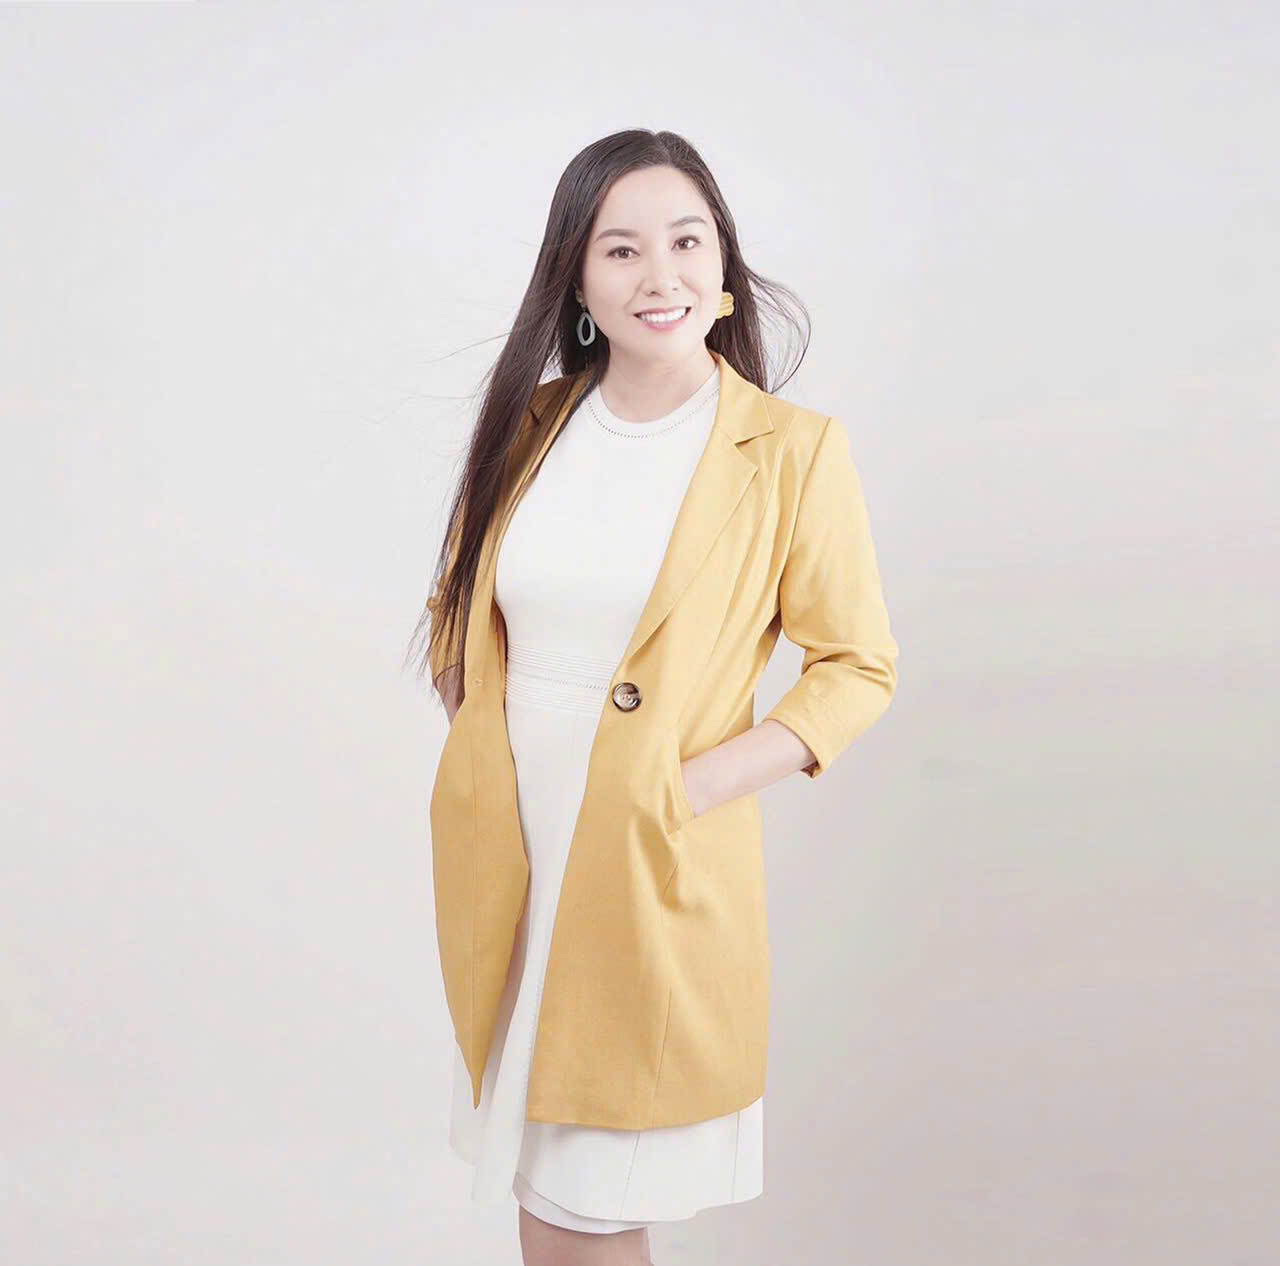
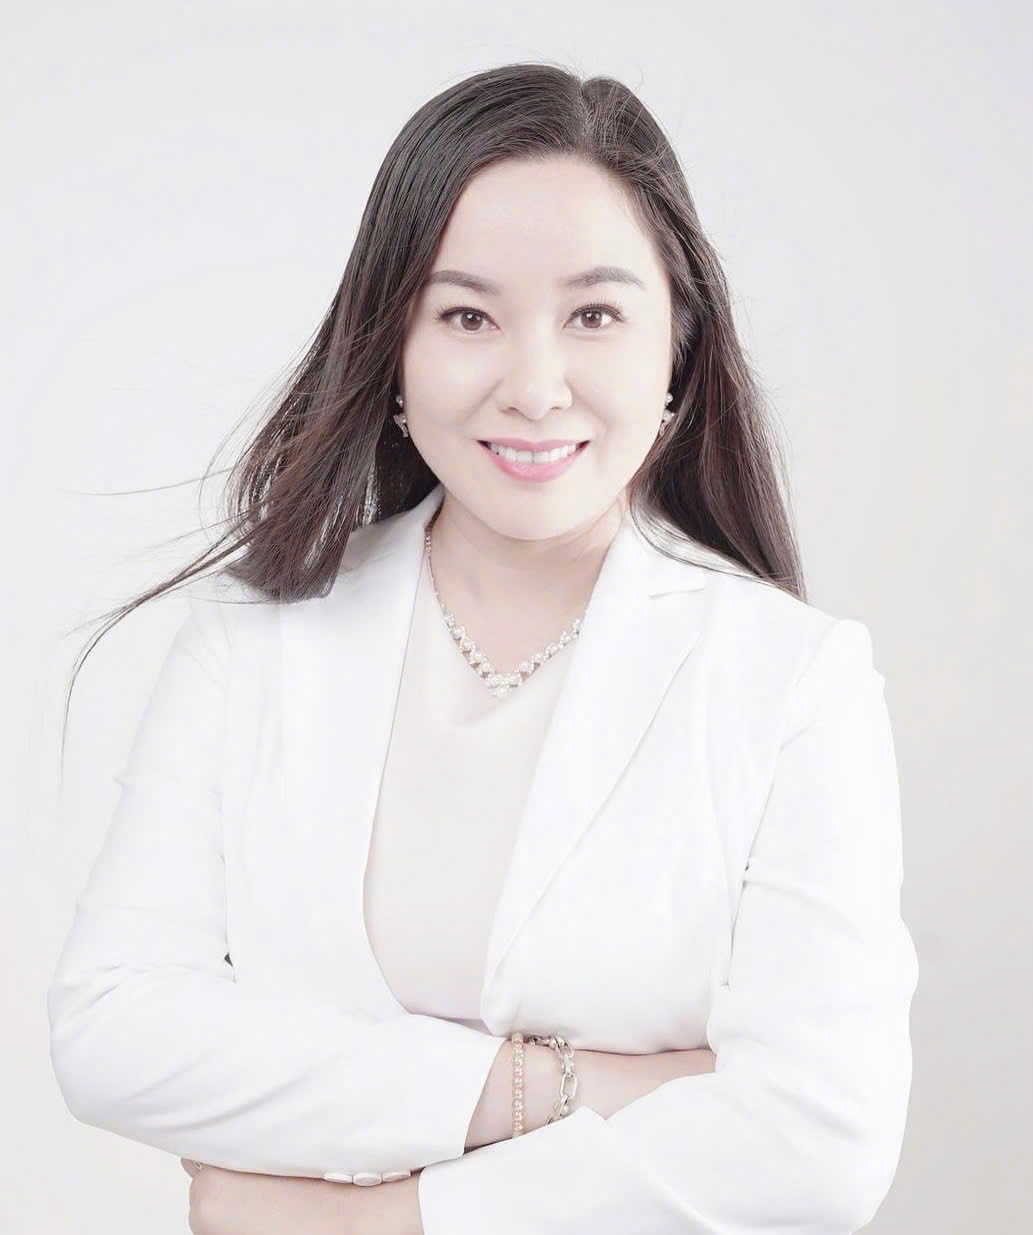
used new pic, add new line

diff --git a/index.html b/index.html
@@ -3375,6 +3375,11 @@
                     </li>
 
                     <li>
+                      Assoc. Prof. Dr. Sirada Eartz Vaiyvjm, Dean of the Faculty
+                      of Design, Rangsit University, Thailand
+                    </li>
+
+                    <li>
                       Dr. Nguyen Thi Bich Van - University of Architecture Ho
                       Chi Minh City, Regional Representative for the
                       Asia-Pacific Region of the Institute of Economic
@@ -3567,11 +3572,21 @@
           </h6>
           <p style="font-size: 13px">
             Registration following link:
-            <a href="https://docs.google.com/forms/d/e/1FAIpQLScmB_LPaijfypMa3zIdyuslkYgsFqW6ZRdQ_91bpwKsks7fBg/viewform?v=20260715" class="text-decoration-none"> LINK HERE</a>
+            <a
+              href="https://docs.google.com/forms/d/e/1FAIpQLScmB_LPaijfypMa3zIdyuslkYgsFqW6ZRdQ_91bpwKsks7fBg/viewform?v=20260715"
+              class="text-decoration-none"
+            >
+              LINK HERE</a
+            >
           </p>
           <p style="font-size: 13px">
             Payment following link:
-            <a href="https://ated.stu.edu.vn/docs/Payment_guide.pdf?v=20260715" class="text-decoration-none"> LINK HERE</a>
+            <a
+              href="https://ated.stu.edu.vn/docs/Payment_guide.pdf?v=20260715"
+              class="text-decoration-none"
+            >
+              LINK HERE</a
+            >
           </p>
         </div>
       </section>